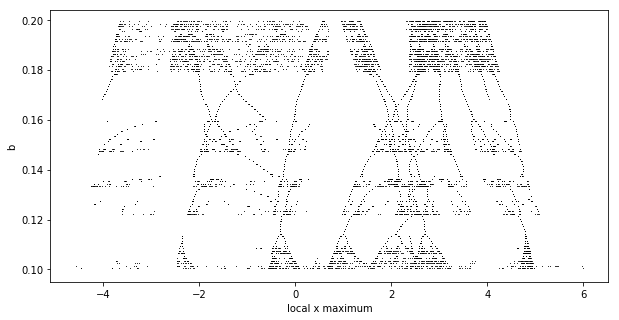
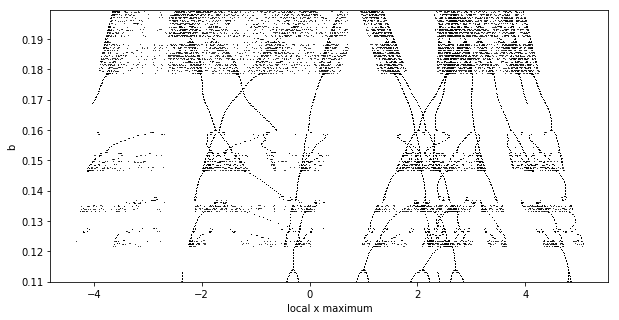
add zoom fig1

diff --git a/README.md b/README.md
@@ -5,6 +5,7 @@
 
 
 ## Links and references
+
 - [http://rreusser.github.io](http://rreusser.github.io/strange-attractors/#thomas) Splendide visualization of different attractors using WebGL
 - [wikipedia page of Thomas' attractor](https://en.wikipedia.org/wiki/Thomas%27_cyclically_symmetric_attractor)
 - [Labyrinth Chaos, J. C. Sprott et al., 2007](http://sprott.physics.wisc.edu/pubs/paper302.pdf)
@@ -13,19 +14,23 @@
 
 - [L’attracteur de Lorenz, paradigme du chaos - E. Ghys](http://www.bourbaphy.fr/ghys.pdf) 
 
+
 ## Thomas' attractor
 
 A simple equation:
-$$
-\dot x = sin(y) - bx \\
-\dot y = sin(z) - by \\
-\dot z = sin(x) - bz
-$$
+
+        $$
+        \dot x = sin(y) - bx \\
+        \dot y = sin(z) - by \\
+        \dot z = sin(x) - bz
+        $$
 
 ## Notebooks
 
 - [test numba and optimization](./test_numba.ipynb)
 - [ODE solver test](./which_solver.ipynb)
-- [what value for coefficient b](./route_to_chaos.ipynb)
+- [what value for coefficient b](./route_to_chaos.ipynb):
 
 ![max of x vs b](./route_to_chaos_fig1.png)
+
+![max of x vs b](./route_to_chaos_fig1_zoom.png)
